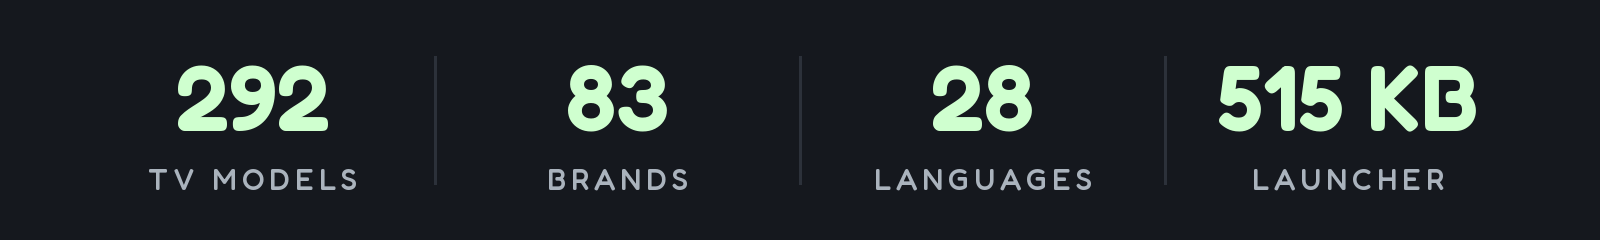
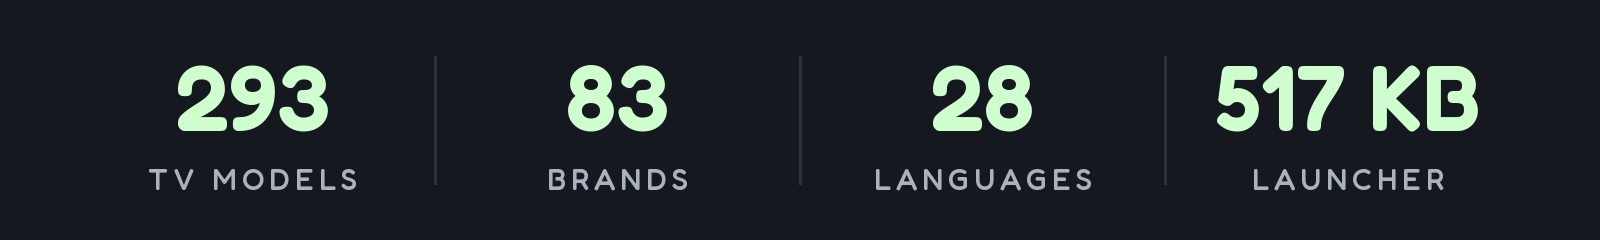
README: tables, counts and card after Round Y (293 TV models, 83 brands, 28 languages, about 517 KB)

Changed region(s): [[0.75, 0.2625, 0.9375, 0.5542], [0.1562, 0.3208, 0.2188, 0.5542]]

diff --git a/tests/test_translation_recipe_gate.py b/tests/test_translation_recipe_gate.py
@@ -5,7 +5,7 @@ in `values/strings.xml`, so a full language is by far the largest thing a transl
 adds to `launcher/app/src/main/res/` - and the release APK has a hard budget:
 `.github/workflows/ci.yml`'s `launcher` job, which runs on every pull request in `launcher/`, measures
 `launcher/app/build/outputs/apk/release/app-release.apk` and fails the build at 589,824 B. The launcher
-ships just under that (README.md quotes about 515 KB), and #1271 is a full Korean translation that did
+ships just under that (README.md quotes about 517 KB), and #1271 is a full Korean translation that did
 not fit. Until now the page said nothing about it, so a translator could follow the recipe exactly and
 land a red build at a step the page never mentions.
 

diff --git a/tools/readme_stats.py b/tools/readme_stats.py
@@ -37,7 +37,7 @@ try:
 except ImportError:
     sys.exit("readme_stats.py needs Pillow: tools/venv/bin/pip install -r tools/requirements-perf.txt")
 
-STATS = [("292", "TV MODELS"), ("83", "BRANDS"), ("28", "LANGUAGES"), ("515 KB", "LAUNCHER")]
+STATS = [("293", "TV MODELS"), ("83", "BRANDS"), ("28", "LANGUAGES"), ("517 KB", "LAUNCHER")]
 W, H = 1600, 240
 img = Image.new("RGB", (W, H), "#15181e"); d = ImageDraw.Draw(img)
 def f(size, wt):

diff --git a/examples/README.md b/examples/README.md
@@ -46,7 +46,7 @@ on that firmware, grouped and commented. These are starting points: comment out 
 | `formovie-laser-4k-hanlla/` | Formovie Laser 4K projector (hanlla, MediaTek T31 / m7632, 1.8 GB) | Android TV 14 | First Formovie list, kept light at the owner's request: Google feedback and consent, partnersetup RLZ pings, Formovie's Play auto-installer, tvrecommendations and Ambient Mode; no Formovie ad or content service on this build; projector manager (focus, keystone, BLE remote), Dolby audio, input/source app, BT remote pairing, Launch Board and User Manual kept; YouTube, Prime Video, Chromecast, Assistant and OTA kept by choice; classic tvlauncher, built-in Ethernet |
 | `freebox-player-pop/` | Freebox Player POP (Free, fbx8am, Amlogic), IPTV/DVB-T box | Android TV 10 | Free stats, Google feedback and recommendations, partner auto-installs, NES/CTC factory tests; French catch-up, kids and Free apps off by choice, Arte/Spotify/Stremio kept; OQEE is the stock home (HOME priority 3); Chromecast must stay for Spotify Connect; AdGuard DNS blocks pixel.spotify.com and breaks Spotify; 2 GB |
 | `gadnic-proj100w/` | Gadnic PROJ100W projector (built-in Google TV stick: SkyworthDigital YYT, Amlogic HP46B), Argentina | Google TV 14 | Same stick/firmware family as Wanbo X5 Pro and BYINTEK T5 Max; telemetry, Privacy Sandbox, xCPE, factory test, voice assistant and TalkBack off; setupwraith + launcherx disabled after a Wi-Fi forget/rejoin (see header); DreamOS launcher installed, screensaver handed to the launcher's clock; wireless-debugging pairing, ADB port resets every reboot |
-| `google-chromecast-gtv-4k/` | Google Chromecast with Google TV 4K (sabrina) | Google TV 14 | Google telemetry and ad services, ambient mode, launcherx + setupwraith; wireless-debugging pairing, YouTube button remap; casting needs setupwraith (its CastInfoProvider holds the receiver's credentials) |
+| `google-chromecast-gtv-4k/` | Google Chromecast with Google TV 4K (sabrina) | Google TV 14 | Google telemetry and ad services, ambient mode, launcherx + setupwraith; wireless-debugging pairing, YouTube button remap; casting needs setupwraith (its CastInfoProvider holds the receiver's credentials): [debloat-keep-cast.txt](google-chromecast-gtv-4k/debloat-keep-cast.txt) keeps it and the stock home |
 | `google-chromecast-gtv-hd/` | Google Chromecast with Google TV HD (boreal) | Google TV 14 | Same build as the 4K: Google telemetry and ad services, ambient mode, launcherx + setupwraith; casting needs setupwraith (Cast Fix re-provisions the receiver at boot), and setupwraith owns Wi-Fi joined during setup; 1.4 GB, tight storage |
 | `google-tv-streamer-4k-kirkwood/` | Google TV Streamer 4K (kirkwood, GZRNL) | Google TV 14 | Google telemetry and ad services; setupwraith must go (package level: its RecoveryActivity claims HOME and crash-loops system_server), so the cast credentials have to be re-provisioned with an enable/wait/disable ritual after every reboot; the launcher HOME intent-filter priority is ignored on this build; wireless-debugging pairing, YouTube button remap |
 | `grundig-kunyang/` | Grundig Android UHD TV (Arçelik, GxGrNM, kunyang, MediaTek), Turkey | Android TV 14 | First Arçelik list: Grundig Channel (Hoppr ad tiles), HotelService, TV Care Hub, partner auto-installs, Privacy Sandbox, Google feedback; Assistant, AirScreen/AirCast, Kids, Play Movies/Games off by choice, Chromecast kept; `fusion.android.tv.demo` handles the Input key, keep it; setupwraith claims no HOME; launcher works, every remote button works with no key service; AdGuard DNS validates; 1.8 GB, +290 MB available; reboot-checked |
@@ -54,7 +54,7 @@ on that firmware, grouped and commented. These are starting points: comment out 
 | `haier-h32s80efx/` | Haier H32S80EFX (MatrixTV CE, HRT56EU, deto, MediaTek), Thailand | Google TV 14 | Haier hOn IoT and smart-device services, Haier tab and Kinopoisk promo, retail demo, cleaner; YouTube Music and Google TV app off by choice; setupwraith must go (RecoveryActivity component refused); Live TV must target the digital tuner, TrueID also claims channel intents |
 | `haier-hr9216eu/` | Haier MatrixTV GE (HR9216EU, haeundae, MediaTek), EU | Google TV 14 | Haier IoT and content apps, Zeasn launcher, cleaner, e-manual, Anoki ACR opt-in, partner rows, retail demo; YouTube Music and Ambient off by choice; Netflix re-enabled from factory-disabled and docked; setupwraith owns the saved Wi-Fi until forget and re-join, then goes with launcherx; the firmware re-enables oemtabprovider and the Zeasn launcher at every boot; the gear button is KEY_UNKNOWN scancode 240 (add it to config.xml locally), HOME_KEY_SERVICE trades the volume ramp; wireless debugging can switch itself off at boot; config.json has the dock |
 | `hisense-65d62qh/` | Hisense 65D62QH (VIDAA_TV, MediaTek MT9653), China | Android TV 11 | China JuUI 9.0.10.845, same build as `vidda-mt9653/`: ad SDK/service, home operator rows and weather feed, telemetry, push channel, retail/hotel/demo and preloaded content, the 拍信创意 screensaver, and the AOSP leftovers this build leaves enabled; debloat only, stock Home `com.jamdeo.tv.vod` and Live TV kept, OTA kept; 26 packages; a USB HID freeze seen once with a second accessibility service enabled, fine after a rebuild — see [the device notes](../docs/devices/hisense-65d62qh.md) |
-| `hisense-e5q-pro/` | Hisense E5Q Pro (VIDAA_TV, MediaTek MT9653), China | Android TV 11 | China VIDAA firmware, the conservative subset of `vidda-mt9653/` (same build): ad SDK/service, push, telemetry, store/hotel/demo and preloaded content; stock launcher `com.jamdeo.tv.vod` and Live TV `com.jamdeo.tv.livetv` kept, OTA kept; 18 packages |
+| `hisense-e5q-pro/` | Hisense E5Q Pro (VIDAA_TV, MediaTek MT9653), China | Android TV 11 | China VIDAA firmware, the conservative subset of `vidda-mt9653/` (same build): ad SDK/service, push, telemetry, store/hotel/demo and preloaded content; stock launcher `com.jamdeo.tv.vod` and Live TV `com.jamdeo.tv.livetv` kept, OTA kept; 18 packages; [55E5Q-PRO ADB and factory-mode guide](hisense-e5q-pro/README.md) |
 | `hisense-fire-tv-aftcibfbd1/` | Hisense Fire TV (AFTCIBFBD1, coyote, MediaTek), US | Fire OS 8.0 / Android 11 | First Fire OS 8 TV: Amazon ACR, ad/recommendation feeders, advertising ID, Shopping, demo, tutorials, telemetry; Alexa, AirPlay, Miracast and preloads (Tubi, Music/Photos, miniTV, Naatyam, games, Ambient) off by choice; Alexa voice (vizzini) is re-enabled at every boot and nothing adb can do sticks; two protected packages noted; HDMI input switching is Amazon-only (TUNE_INPUT is signature-level); AdGuard Private DNS works; Kids, OTA, Live TV, Silk kept; debloat only, see the 2023 stick list for more packages |
 | `hisense-hg9/` | Hisense HG9 (HiSmart 4K A4FFM) | Android TV 9 | ACR collector, Smartsense, log reporter, store mode, B2B; FLauncher used instead of stock |
 | `hisense-hismarttv-a4-android11/` | Hisense HiSmartTV A4 (xiaoyushan, MStar m7322), Android 11 firmware RTT2.221108.001 | Android TV 11 | Same set after its Android 11 update, now with the FFM-style namespace: Hisense ACR (evservice), push messages, VIDAA Channels, HiAlexa, hotel mode, store disclaimer, Google partner tracking and auto-installs; streaming apps optional; OTA, casting, Assistant kept; USB debugging opens port 5555; the Input key only works through the stock launcher (VIEW_INPUTS); smartsense kept |
@@ -126,6 +126,7 @@ on that firmware, grouped and commented. These are starting points: comment out 
 | `redmi-mitv-antl0/` | Redmi TV (MiTV-ANTL0, starwars) | Android 5.1.1 (not Android TV) | Mi push/web-content/cloud-control ads, TV Taobao, stock screensaver, OTA; needs `pm hide` instead of `pm disable-user`; startup-ad method depends on firmware and stock-launcher version, see the [L43M7-EA settings-only case](../docs/devices/xiaomi-l43m7-ea-antl0.md) |
 | `redmi-mitv-mftp0/` | Redmi TV (MiTV-MFTP0, alita), China firmware 23.2.10.6129 | Android TV 9 (CN build) | CN-firmware Redmi, no Google apps: Mi analytics, tvqs, after-sales survey upload, cloud control, promo web container, shop plugin and store, preloaded apps, Mi Home off; `pm disable-user` works; **keep PatchWall enabled**: Home is a package-name allowlist like MiTV-AETP0, the `com.ts.launcher` application-ID build became Home and survived a reboot, do not run `build-and-install.sh` with defaults; startup ad off with `boot_ad_switch 0` on launcher 3.49.1601; `com.gitvdemo.video` is 银河奇异果 (iQIYI), kept; push service (installer whitelist), voice, casting, OTA, payments kept |
 | `rocktek-gb1/` | RockTek GB1 | Google TV 14 | Provisional seven-package list: Android privacy-sandbox services, feedback and unused media apps; setupwraith and launcherx off only after a confirmed Home handover and Wi-Fi ownership check; [gear and Macro buttons restored](rocktek-gb1/README.md) through the device overlay |
+| `rocktek-gx1/` | RockTek GX1 (HPR3A1325_4K) | Google TV 14 | Skyworth Realtek RTD1325 platform; Google TV 14 with 5-slot glass dock; stock launcherx and setupwraith safely disabled after Home handover; Google TV mobile remote and RockTek front panel LED control preserved; [gear button mapped to keycode 83](rocktek-gx1/README.md) |
 | `sankey-smart2ktvse/` | Sankey SMART2KTVSE (Whale OS, SiliconPlayer am30bm) | Android TV 13 | Whale OS (Zeasn) telemetry/services, factory apps, AI voice assistant, ad services, updaters; stock launcher `com.whaletv.launcher` replaced with CleanYourTV; Live TV `com.zeasn.livetv` kept (needed for HDMI inputs); camera `com.android.camera2` left out of the list (disabled by hand on that unit; system app, so `pm disable-user` works and `pm uninstall` fails); MENU+1147 does NOT work on this model; ADB enabled via Activity Launcher app; 1 GB RAM; ADB over WiFi on port 5555 after enabling Developer Options via Activity Launcher app |
 | `sankey-smart-tv-hi3751v350/` | Sankey SMART_TV (CVTE, HiSilicon Hi3751V350, 1 GB) | Android 12 | CVTE ad and push services (`gaia.ad`, `wonder.cloud`, `industries`), the ad screensaver, the "cleaner", the stock weather and Google feedback; Miracast off by choice; the CVTE store kept by default (it hosts the stock launcher's Apps grid; the tested set turned it off because it kept pushing a CVTE-signed "WebTube" as a YouTube update); no Developer options and no App info page, ADB from the CVTE factory menu (MENU 1147); stock launcher kept (no FallbackHome, `COMMON_HOME`, #1201); Inputs pill opens `com.cvte.tv.globalui/.InputSourceActivity` |
 | `sanyo-atv-r2/` | SANYO ATV R2 (SCBC, Realtek RTD285O) | Android TV 9 | S-Channels, E-SHOW demo, Vewd, TV Booster, SANYO OTA |

diff --git a/README.md b/README.md
@@ -19,7 +19,7 @@
 </p>
 
 <p align="center">
-  <a href="docs/PRESS.md"><img src="docs/card.jpg" alt="292 TV models · 83 brands · 28 languages · 515 KB launcher. Featured in TechCrunch, TechRadar, Tom's Guide, Mashable, Android Authority, XDA, FlatpanelsHD, It's FOSS, Phandroid, GIGAZINE, Xataka, WinFuture, Frandroid, Macitynet, Techaeris, TechPP and 180 more: 196 articles from 32 countries. Before: stock Google TV home with a sponsored ad. After: the Clean Your TV launcher." width="800"></a>
+  <a href="docs/PRESS.md"><img src="docs/card.jpg" alt="293 TV models · 83 brands · 28 languages · 517 KB launcher. Featured in TechCrunch, TechRadar, Tom's Guide, Mashable, Android Authority, XDA, FlatpanelsHD, It's FOSS, Phandroid, GIGAZINE, Xataka, WinFuture, Frandroid, Macitynet, Techaeris, TechPP and 180 more: 196 articles from 32 countries. Before: stock Google TV home with a sponsored ad. After: the Clean Your TV launcher." width="800"></a>
 </p>
 
 **The viral tweet:** [x.com/gathint/status/2111379569030939102](https://x.com/gathint/status/2111379569030939102)
@@ -117,11 +117,11 @@ Tested lists from contributors, one folder per model in [`examples/`](examples/)
 **TCL** 64 · **Sony** 37 · **Xiaomi** 31 · **Philips** 15 · **Hisense** 10 · **Skyworth** 9 · **Amazon Fire TV** 7 ·
 **BenQ** 4 · **OnePlus** 4 · **Panasonic** 4 · **Thomson** 4 · **Google** 3 · **Haier** 3 · **JVC** 3 · **SHARP** 3 ·
 **Vu** 3 · **CHiQ** 2 · **FFalcon** 2 · **Hitachi** 2 · **Kalley** 2 · **Kogan** 2 · **Motorola** 2 · **Nokia** 2 ·
-**NVIDIA Shield** 2 · **onn** 2 · **RCA** 2 · **Redmi** 2 · **Sankey** 2 · **Toshiba** 2 · **Vidda** 2 ·
+**NVIDIA Shield** 2 · **onn** 2 · **RCA** 2 · **Redmi** 2 · **RockTek** 2 · **Sankey** 2 · **Toshiba** 2 · **Vidda** 2 ·
 Acer · AiPro2K · AIWA · AQUA · Artel · ASUS · Beko · Caxium · Cecotec · Challenger · Compac · Dcolor · Dialog · EKO ·
 Freebox · Grundig · INCLO · Insignia Fire TV · Karbonn · KTC · Liberton · Lumio · Master-G · MTC · Noblex · OK. ·
-Panavox · PEAQ · Polytron · PRISM+ · RockTek · SANYO · Sber · Super General · Tele System · TiVo · Tornado · Turkcell ·
-Tuvio · Verizon · Vision ·
+Panavox · PEAQ · Polytron · PRISM+ · SANYO · Sber · Super General · Tele System · TiVo · Tornado · Turkcell · Tuvio ·
+Verizon · Vision ·
 Anker Nebula, BYINTEK, Epson, Formovie, Gadnic, HOTACK, JMGO, Magcubic, Portronics, Stellamore, Wanbo and XGIMI projectors
 
 <!-- tv-brands:end -->
@@ -252,6 +252,7 @@ Anker Nebula, BYINTEK, Epson, Formovie, Gadnic, HOTACK, JMGO, Magcubic, Portroni
 | Redmi TV (MiTV-ANTL0, starwars) | Android 5.1.1 (not Android TV) |
 | Redmi TV (MiTV-MFTP0, alita), China firmware 23.2.10.6129 | Android TV 9 (CN build) |
 | RockTek GB1 | Google TV 14 |
+| RockTek GX1 (HPR3A1325_4K) | Google TV 14 |
 | Sankey SMART2KTVSE (Whale OS, SiliconPlayer am30bm) | Android TV 13 |
 | Sankey SMART_TV (CVTE, HiSilicon Hi3751V350, 1 GB) | Android 12 |
 | SANYO ATV R2 (SCBC, Realtek RTD285O) | Android TV 9 |
@@ -471,7 +472,7 @@ tools/theme.sh themes/aurora                                 # push a theme; --r
 | [`tools/flamechart.py`](tools/flamechart.py) | Draws a before/after flame chart from those traces, for a pull request: one lane per thread on a shared time scale, the work a change targets in magenta with its total. Optional, like the trace tools. [Guide](tools/flamechart.md). |
 | [`tools/screendiff.py`](tools/screendiff.py) | Compares a before and an after screenshot pixel by pixel, leaving out the clock or anything you mask, and writes the pair with your Wi-Fi name blurred. Optional, like the trace tools. [Guide](tools/screendiff.md). |
 | [`tools/race_calendar.py`](tools/race_calendar.py) | Writes this season's F1 calendar into a theme for race-weekend mode, from the free Jolpica API. |
-| [`launcher/build-and-install.sh`](launcher/build-and-install.sh) | Builds a shrunk release (about 515 KB), installs it, switches Home, and rolls back if Home does not land on it. |
+| [`launcher/build-and-install.sh`](launcher/build-and-install.sh) | Builds a shrunk release (about 517 KB), installs it, switches Home, and rolls back if Home does not land on it. |
 
 The scripts never leave the TV without a Home app: they only disable a stock launcher they recognise,
 and skip the Home app in a list until another launcher answers HOME. Details below.
@@ -543,7 +544,7 @@ apps), which is why the report names that loss per package instead of calling it
 
 ## The launcher
 
-A small native home screen for Android TV: **about 515 KB**, plain Java, built for TVs with 1 GB of RAM.
+A small native home screen for Android TV: **about 517 KB**, plain Java, built for TVs with 1 GB of RAM.
 No blur, no video, no network permission, no background services.
 
 The **TV** needs Android 8.0 (API 26) or newer: `minSdk` is a compile-time floor in

diff --git a/docs/workflows/translation.md b/docs/workflows/translation.md
@@ -28,7 +28,7 @@
 7. Check the size gate before you push. A language's strings ship in the release APK, and that APK has to
    stay under 589,824 B (576 KB): `launcher/app/build/outputs/apk/release/app-release.apk`, measured with
    `stat -c %s` on Linux or `stat -f %z` on macOS, and checked by the "Launcher build and unit tests" job
-   on every pull request. `README.md` quotes the launcher at about 515 KB, so a full language can be the
+   on every pull request. `README.md` quotes the launcher at about 517 KB, so a full language can be the
    difference between green and a failed build. A language that does not fit is a maintainer decision, not
    something to land by dropping strings ([#1271](https://github.com/Gathin23/cleanyourtv/issues/1271)).
 8. Build the launcher, set the TV's language (Android 13+: `tools/tv.py 'cmd locale set-app-locales com.gathin.tvhome --locales <tag>'`)

diff --git a/.github/maintainer/MAINTAINER.md b/.github/maintainer/MAINTAINER.md
@@ -1,7 +1,7 @@
 # How CleanYourTV PRs are reviewed
 
 CleanYourTV (Gathin23/cleanyourtv) is a prompt plus tools that debloat Android TV / Google TV / Fire TV over
-ADB and a tiny native launcher (`launcher/`, plain Java, ~515 KB, for 1 GB TVs). Contributors mostly add
+ADB and a tiny native launcher (`launcher/`, plain Java, ~517 KB, for 1 GB TVs). Contributors mostly add
 tested TV lists under `examples/<tv>/`, translations, docs, small launcher options, themes, add-ons and tools.
 
 ## The policy: a small core plus a well-indexed hub
